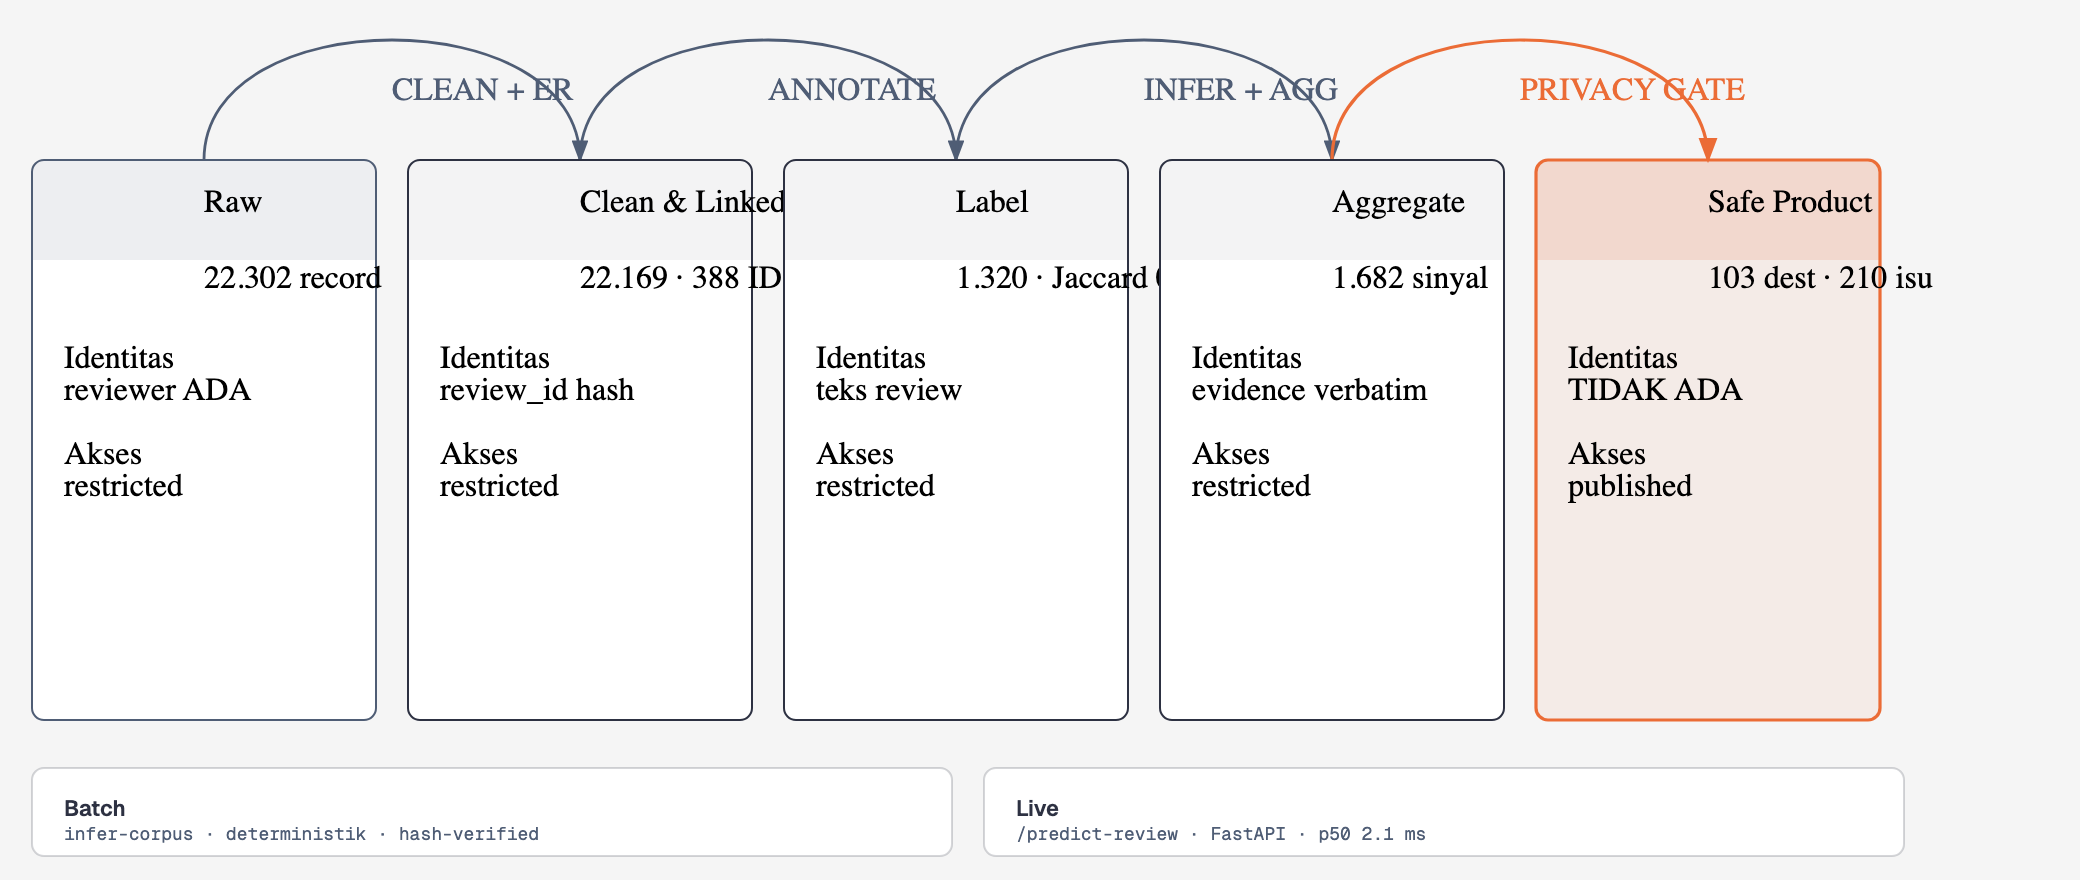
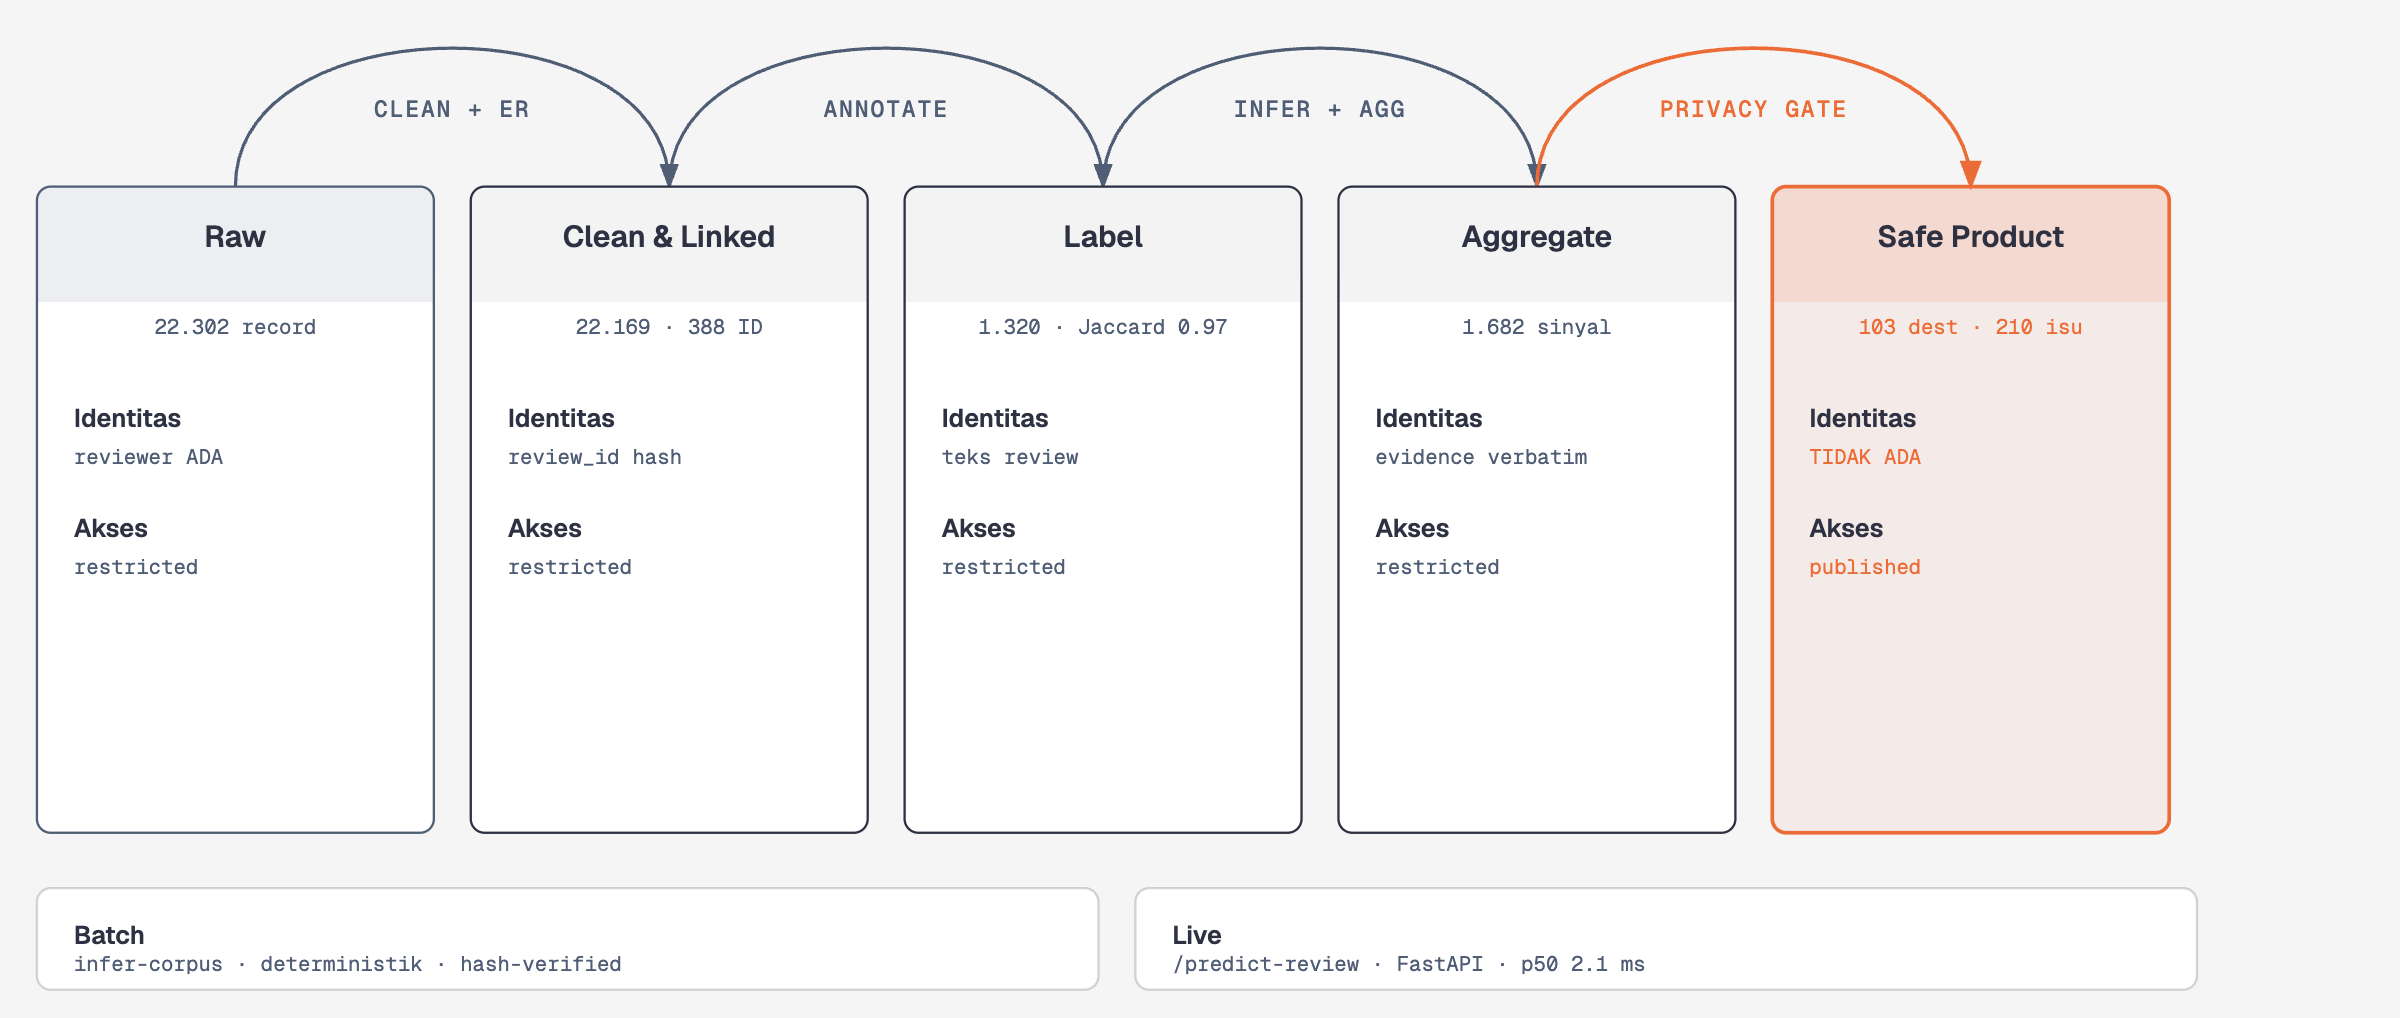
fix: clean deployment arrows, regenerate PNG/SVG with fonts, add TF-IDF rationale + figure interpretations

diff --git a/docs/figures/diagrams/deployment-dgx.html b/docs/figures/diagrams/deployment-dgx.html
@@ -37,54 +37,54 @@
       <rect width="100%" height="100%" fill="#f5f5f5"/>
 
       <!-- Zone: DGX B200 -->
-      <rect x="340" y="80" width="620" height="240" rx="8" fill="rgba(45,49,66,0.02)" stroke="rgba(45,49,66,0.10)" stroke-width="0.8"/>
-      <rect x="396" y="84" width="72" height="12" rx="2" fill="#f5f5f5"/>
-      <text x="432" y="93" fill="rgba(45,49,66,0.40)" font-size="7" font-family="'Geist Mono', monospace" text-anchor="middle" letter-spacing="0.14em">DGX B200</text>
+      <rect x="560" y="72" width="340" height="256" rx="8" fill="rgba(45,49,66,0.02)" stroke="rgba(45,49,66,0.10)" stroke-width="0.8"/>
+      <rect x="672" y="76" width="72" height="12" rx="2" fill="#f5f5f5"/>
+      <text x="708" y="85" fill="rgba(45,49,66,0.40)" font-size="7" font-family="'Geist Mono', monospace" text-anchor="middle" letter-spacing="0.14em">DGX B200</text>
 
       <!-- Arrows first -->
-      <line x1="168" y1="192" x2="364" y2="192" stroke="#2e5aa8" stroke-width="1.2" marker-end="url(#arrow-link)"/>
-      <path d="M 524,176 H 632 Q 640,176 640,168 V 132" fill="none" stroke="#eb6c36" stroke-width="1.4" marker-end="url(#arrow-accent)"/>
-      <path d="M 524,208 H 632 Q 640,208 640,216 V 272" fill="none" stroke="#4f5d75" stroke-width="1.2" marker-end="url(#arrow)"/>
+      <line x1="168" y1="224" x2="332" y2="224" stroke="#2e5aa8" stroke-width="1.2" marker-end="url(#arrow-link)"/>
+      <path d="M 412,192 V 136 Q 412,128 420,128 H 620" fill="none" stroke="#eb6c36" stroke-width="1.4" marker-end="url(#arrow-accent)"/>
+      <path d="M 412,256 V 280 Q 412,288 420,288 H 620" fill="none" stroke="#4f5d75" stroke-width="1.2" marker-end="url(#arrow)"/>
 
       <!-- Arrow labels -->
-      <rect x="196" y="172" width="56" height="12" rx="2" fill="#f5f5f5"/>
-      <text x="224" y="181" fill="#2e5aa8" font-size="8" font-family="'Geist Mono', monospace" text-anchor="middle" letter-spacing="0.08em">HTTPS</text>
-      <rect x="556" y="120" width="40" height="12" rx="2" fill="#f5f5f5"/>
-      <text x="576" y="129" fill="#eb6c36" font-size="8" font-family="'Geist Mono', monospace" text-anchor="middle" letter-spacing="0.08em">LIVE</text>
-      <rect x="556" y="236" width="40" height="12" rx="2" fill="#f5f5f5"/>
-      <text x="576" y="245" fill="#4f5d75" font-size="8" font-family="'Geist Mono', monospace" text-anchor="middle" letter-spacing="0.08em">READ</text>
+      <rect x="196" y="204" width="56" height="12" rx="2" fill="#f5f5f5"/>
+      <text x="224" y="213" fill="#2e5aa8" font-size="8" font-family="'Geist Mono', monospace" text-anchor="middle" letter-spacing="0.08em">HTTPS</text>
+      <rect x="492" y="108" width="40" height="12" rx="2" fill="#f5f5f5"/>
+      <text x="512" y="117" fill="#eb6c36" font-size="8" font-family="'Geist Mono', monospace" text-anchor="middle" letter-spacing="0.08em">LIVE</text>
+      <rect x="492" y="296" width="40" height="12" rx="2" fill="#f5f5f5"/>
+      <text x="512" y="305" fill="#4f5d75" font-size="8" font-family="'Geist Mono', monospace" text-anchor="middle" letter-spacing="0.08em">READ</text>
 
       <!-- Node: User -->
-      <rect x="40" y="160" width="128" height="64" rx="6" fill="#f5f5f5"/>
-      <rect x="40" y="160" width="128" height="64" rx="6" fill="rgba(79,93,117,0.10)" stroke="#7a8399" stroke-width="1"/>
-      <rect x="48" y="168" width="28" height="12" rx="2" fill="transparent" stroke="rgba(122,131,153,0.40)" stroke-width="0.8"/>
-      <text x="62" y="177" fill="#7a8399" font-size="7" font-family="'Geist Mono', monospace" text-anchor="middle" letter-spacing="0.08em">EXT</text>
-      <text x="104" y="196" fill="#2d3142" font-size="12" font-weight="600" font-family="'Geist', sans-serif" text-anchor="middle">Browser</text>
-      <text x="104" y="212" fill="#4f5d75" font-size="9" font-family="'Geist Mono', monospace" text-anchor="middle">juri · demo</text>
+      <rect x="40" y="192" width="128" height="64" rx="6" fill="#f5f5f5"/>
+      <rect x="40" y="192" width="128" height="64" rx="6" fill="rgba(79,93,117,0.10)" stroke="#7a8399" stroke-width="1"/>
+      <rect x="48" y="200" width="28" height="12" rx="2" fill="transparent" stroke="rgba(122,131,153,0.40)" stroke-width="0.8"/>
+      <text x="62" y="209" fill="#7a8399" font-size="7" font-family="'Geist Mono', monospace" text-anchor="middle" letter-spacing="0.08em">EXT</text>
+      <text x="104" y="228" fill="#2d3142" font-size="12" font-weight="600" font-family="'Geist', sans-serif" text-anchor="middle">Browser</text>
+      <text x="104" y="244" fill="#4f5d75" font-size="9" font-family="'Geist Mono', monospace" text-anchor="middle">juri · demo</text>
 
       <!-- Node: web (focal) -->
-      <rect x="380" y="160" width="144" height="64" rx="6" fill="#f5f5f5"/>
-      <rect x="380" y="160" width="144" height="64" rx="6" fill="rgba(235,108,54,0.08)" stroke="#eb6c36" stroke-width="1.2"/>
-      <rect x="388" y="168" width="32" height="12" rx="2" fill="transparent" stroke="rgba(235,108,54,0.50)" stroke-width="0.8"/>
-      <text x="404" y="177" fill="#eb6c36" font-size="7" font-family="'Geist Mono', monospace" text-anchor="middle" letter-spacing="0.08em">WEB</text>
-      <text x="452" y="196" fill="#2d3142" font-size="12" font-weight="600" font-family="'Geist', sans-serif" text-anchor="middle">Next.js</text>
-      <text x="452" y="212" fill="#4f5d75" font-size="9" font-family="'Geist Mono', monospace" text-anchor="middle">precomputed</text>
+      <rect x="340" y="192" width="144" height="64" rx="6" fill="#f5f5f5"/>
+      <rect x="340" y="192" width="144" height="64" rx="6" fill="rgba(235,108,54,0.08)" stroke="#eb6c36" stroke-width="1.2"/>
+      <rect x="348" y="200" width="32" height="12" rx="2" fill="transparent" stroke="rgba(235,108,54,0.50)" stroke-width="0.8"/>
+      <text x="364" y="209" fill="#eb6c36" font-size="7" font-family="'Geist Mono', monospace" text-anchor="middle" letter-spacing="0.08em">WEB</text>
+      <text x="412" y="228" fill="#2d3142" font-size="12" font-weight="600" font-family="'Geist', sans-serif" text-anchor="middle">Next.js</text>
+      <text x="412" y="244" fill="#4f5d75" font-size="9" font-family="'Geist Mono', monospace" text-anchor="middle">precomputed</text>
 
       <!-- Node: inference -->
-      <rect x="640" y="100" width="144" height="64" rx="6" fill="#f5f5f5"/>
-      <rect x="640" y="100" width="144" height="64" rx="6" fill="#ffffff" stroke="#2d3142" stroke-width="1"/>
-      <rect x="648" y="108" width="36" height="12" rx="2" fill="transparent" stroke="rgba(45,49,66,0.40)" stroke-width="0.8"/>
-      <text x="666" y="117" fill="#2d3142" font-size="7" font-family="'Geist Mono', monospace" text-anchor="middle" letter-spacing="0.08em">INFER</text>
-      <text x="712" y="136" fill="#2d3142" font-size="12" font-weight="600" font-family="'Geist', sans-serif" text-anchor="middle">FastAPI</text>
-      <text x="712" y="152" fill="#4f5d75" font-size="9" font-family="'Geist Mono', monospace" text-anchor="middle">TF-IDF · live</text>
+      <rect x="620" y="96" width="144" height="64" rx="6" fill="#f5f5f5"/>
+      <rect x="620" y="96" width="144" height="64" rx="6" fill="#ffffff" stroke="#2d3142" stroke-width="1"/>
+      <rect x="628" y="104" width="36" height="12" rx="2" fill="transparent" stroke="rgba(45,49,66,0.40)" stroke-width="0.8"/>
+      <text x="646" y="113" fill="#2d3142" font-size="7" font-family="'Geist Mono', monospace" text-anchor="middle" letter-spacing="0.08em">INFER</text>
+      <text x="692" y="132" fill="#2d3142" font-size="12" font-weight="600" font-family="'Geist', sans-serif" text-anchor="middle">FastAPI</text>
+      <text x="692" y="148" fill="#4f5d75" font-size="9" font-family="'Geist Mono', monospace" text-anchor="middle">TF-IDF · live</text>
 
       <!-- Node: db -->
-      <rect x="640" y="240" width="144" height="64" rx="6" fill="#f5f5f5"/>
-      <rect x="640" y="240" width="144" height="64" rx="6" fill="rgba(45,49,66,0.05)" stroke="#4f5d75" stroke-width="1"/>
-      <rect x="648" y="248" width="24" height="12" rx="2" fill="transparent" stroke="rgba(79,93,117,0.50)" stroke-width="0.8"/>
-      <text x="660" y="257" fill="#4f5d75" font-size="7" font-family="'Geist Mono', monospace" text-anchor="middle" letter-spacing="0.08em">DB</text>
-      <text x="712" y="276" fill="#2d3142" font-size="12" font-weight="600" font-family="'Geist', sans-serif" text-anchor="middle">PostgreSQL</text>
-      <text x="712" y="292" fill="#4f5d75" font-size="9" font-family="'Geist Mono', monospace" text-anchor="middle">data bundle</text>
+      <rect x="620" y="256" width="144" height="64" rx="6" fill="#f5f5f5"/>
+      <rect x="620" y="256" width="144" height="64" rx="6" fill="rgba(45,49,66,0.05)" stroke="#4f5d75" stroke-width="1"/>
+      <rect x="628" y="264" width="24" height="12" rx="2" fill="transparent" stroke="rgba(79,93,117,0.50)" stroke-width="0.8"/>
+      <text x="640" y="273" fill="#4f5d75" font-size="7" font-family="'Geist Mono', monospace" text-anchor="middle" letter-spacing="0.08em">DB</text>
+      <text x="692" y="292" fill="#2d3142" font-size="12" font-weight="600" font-family="'Geist', sans-serif" text-anchor="middle">PostgreSQL</text>
+      <text x="692" y="308" fill="#4f5d75" font-size="9" font-family="'Geist Mono', monospace" text-anchor="middle">data bundle</text>
 
       <!-- Legend strip -->
       <line x1="40" y1="344" x2="960" y2="344" stroke="rgba(45,49,66,0.10)" stroke-width="0.8"/>

diff --git a/SIPATURE-Laporan-Final-Draft.md b/SIPATURE-Laporan-Final-Draft.md
@@ -112,7 +112,7 @@ Rantai lengkap dari ulasan mentah hingga tindak lanjut terverifikasi:
 
 **Gambar 1. Rantai solusi SIPATURE — dari ulasan menjadi tindak lanjut terverifikasi.**
 
-Tujuh tahap: ulasan mentah dibersihkan dan dihubungkan ke destinasi (*entity resolution*), diproses model deteksi aspek (TF-IDF + lexical polarity), diagregasi menjadi sinyal dan bukti verbatim per destinasi, diprioritaskan secara *missing-aware*, diverifikasi manusia (`confirmed`/`rejected`/`uncertain`), lalu menjadi kandidat tindak lanjut. *Severity* tidak tersedia (support kelas `high` < 20) sehingga tidak diimputasi.
+**Interpretasi Gambar 1.** Tujuh tahap: ulasan mentah dibersihkan dan dihubungkan ke destinasi (*entity resolution*), diproses model deteksi aspek (TF-IDF + lexical polarity, ditandai *focal*), diagregasi menjadi sinyal dan bukti verbatim per destinasi, diprioritaskan secara *missing-aware*, diverifikasi manusia (`confirmed`/`rejected`/`uncertain`), lalu menjadi kandidat tindak lanjut. *Severity* tidak tersedia (support kelas `high` < 20) sehingga tidak diimputasi.
 
 ## 3.2 Taxonomy
 
@@ -178,7 +178,7 @@ Tujuh tahap: ulasan mentah dibersihkan dan dihubungkan ke destinasi (*entity res
 
 **Gambar 2. Deployment tiga layanan di host DGX B200.**
 
-Aplikasi *web* (Next.js) membaca data precomputed dari *bundle* A9 yang di-seed ke PostgreSQL, dan memanggil layanan *inference* (FastAPI TF-IDF) untuk analisis *review* live. Ketiga layanan berjalan dalam satu host DGX B200 secara offline.
+**Interpretasi Gambar 2.** Browser (juri/demo) memanggil *web* Next.js melalui HTTPS. *Web* membaca data precomputed dari PostgreSQL (`READ`), dan untuk analisis *review* live memanggil layanan *inference* FastAPI yang memuat model TF-IDF ter-bundle (`LIVE`). Ketiga layanan berjalan dalam satu host DGX B200; model dan data sudah di-*bundle* ke image sehingga tidak ada *download* saat *startup* dan demo berjalan penuh tanpa internet eksternal.
 
 ## 5.2 Fitur
 
@@ -220,9 +220,21 @@ Docker Compose tiga layanan; model & data di-*bundle* ke image (tanpa *download*
 | IndoBERT (aspek) | 0,5247 | 0,4254 |
 | IndoBERT (polarity) | 0,7459 | 0,5077 (≈ chance) |
 
-## 6.2 Keputusan Model
+**Interpretasi Gambar 3.** Bar kiri adalah *agreement* terhadap *silver* (weak supervision), bar kanan terhadap *gold-v1* (manusia). *Keyword* turun drastis dari 0,9768 ke 0,7056 — menegaskan bahwa skor *silver*-nya sirkular. TF-IDF turun dari 0,7201 ke 0,5777, penurunan yang wajar karena *gold* lebih ketat; angka ini adalah ukuran jujur terhadap penilaian manusia. IndoBERT tetap paling rendah (0,4254). Karena itu TF-IDF dipertahankan sebagai model produksi, dengan alasan lengkap pada §6.2.
 
-TF-IDF tetap menjadi detektor aspek karena merupakan **model yang belajar dari data** (interpretable, CPU-only, cepat), sedangkan *gold* dipakai sebagai **benchmark evaluasi**, bukan data *training*. Menggunakan *gold* untuk melatih akan membuat evaluasi sirkular (1.320 *review* yang sama dipakai evaluasi). *Keyword* lebih tinggi di gold (0,7056) tetapi merupakan *rule engine* yang sama dengan pembuat *silver* — dilaporkan terpisah sebagai *ceiling*.
+## 6.2 Keputusan Model — mengapa TF-IDF (dilatih silver) dipilih
+
+**Mengapa model produksi dilatih pada *silver labels*, bukan *gold*?** Karena *gold* adalah *benchmark evaluasi*, bukan data *training*. Ketiga alasan berikut menjawab pertanyaan juri yang paling sering muncul:
+
+1. **Circularity / leakage.** 1.320 *review* *gold* adalah persis *split* yang dipakai evaluasi. Melatih di *gold* lalu menguji di *gold* berarti model menghafal jawaban — persis seperti *Keyword* 0,9768 di *silver* yang kami ungkap sebagai *ceiling*, bukan prestasi. Nilai F1 yang dihasilkan tidak akan bermakna.
+2. **Generalisasi.** *Gold* hanya 1.320 *review*, sedangkan produksi harus memprediksi 12.234 *review* berteks. *Silver* menyediakan data *training* yang sama besarnya dan sudah dipakai sejak awal untuk melatih.
+3. **Independensi *benchmark*.** *Gold* dibuat justru agar independen dari model; memakainya untuk melatih akan menghancurkan fungsinya sebagai pengukur yang jujur.
+
+**Lalu mengapa bukan *Keyword* (0,7056 > TF-IDF 0,5777 di gold)?** *Keyword* adalah *rule engine* leksikal yang *sama* dengan pembuat *silver labels* — bukan model yang belajar dari data. Ia tinggi di *silver* (0,9768) justru karena sirkular, dan tetap tinggi di *gold* karena lexikon *taxonomy*-nya kebetulan cocok dengan penilaian manusia. Memilih *Keyword* berarti memilih *rules* yang sudah kami tulis sendiri, bukan model yang menggeneralisasi. Kami melaporkan keduanya secara terpisah dan tidak menyembunyikan gap ini.
+
+**Dan mengapa bukan IndoBERT?** IndoBERT (124,5M param, fine-tune 4 *epoch*) memperoleh aspek 0,4254 dan *polarity* 0,5077 (≈ *chance*) di *gold-v1* — keduanya di bawah TF-IDF. Pada data kecil (922 *train*) dengan label lemah dan distribusi aspek timpang, kompleksitas tidak otomatis memberi hasil lebih baik; IndoBERT juga lebih mahal (GPU) dan kurang interpretable.
+
+**Kesimpulan:** TF-IDF + *One-vs-Rest Logistic Regression* dipilih sebagai detektor aspek karena (a) model yang benar-benar belajar dari data, (b) *interpretable* dan deterministik, (c) CPU-only dengan *latency* p50 2,1 ms, (d) dapat dimuat ulang secara offline, dan (e) hasil *gold-v1*-nya (0,5777) adalah angka jujur terhadap penilaian manusia. *Upgrade* yang benar di masa depan adalah menambah anotasi manusia (held-out set baru) lalu melatih ulang — bukan memakai *gold* yang sama sebagai *training*.
 
 ## 6.3 Entity Resolution
 
@@ -276,6 +288,8 @@ Arsitektur *batch-first* + SQL; TF-IDF inferensi linear; *entity resolution* ber
 
 **Gambar 4. Lima lapisan data — dari mentah (restricted) ke agregat aman (published).**
 
+**Interpretasi Gambar 4.** Data mengalir dari kiri ke kanan melalui empat transformasi, dengan **PRIVACY GATE** (ditandai aksen) sebagai batas kritis: hanya agregat aman yang menyeberang ke sisi publik. Identitas reviewer berangsur hilang — dari `reviewer-id`/`name` di lapisan *raw*, menjadi `review_id` hash, teks *review*, *evidence* verbatim, hingga **tidak ada sama sekali** di *bundle* produk. Dua jalur konsumsi (*batch* dan *live*) memakai data yang sama secara deterministik dan hash-verified.
+
 Data SIPATURE dibagi lima lapisan dengan tingkat akses berbeda. Lapisan mentah hingga *evidence* hanya dapat diakses tim ML (`restricted`); hanya **agregat aman** yang dipublikasikan ke aplikasi tanpa identitas reviewer:
 
 | Lapisan | Konten | Identitas reviewer | Akses |
@@ -289,6 +303,8 @@ Data SIPATURE dibagi lima lapisan dengan tingkat akses berbeda. Lapisan mentah h
 ![Matriks akses data terbatas](docs/figures/diagrams/restricted-data-policy.png)
 
 **Gambar 5. Matriks akses tiga peran × lima komponen data.**
+
+**Interpretasi Gambar 5.** Empat komponen terbatas (`raw`, `clean`, *annotation*, *evidence*) hanya `Admin` bagi tim ML — publik dan pengelola `None`. Hanya **safe aggregate** yang `Read` oleh publik (sel yang ditandai aksen = batas publikasi). Matriks ini membuktikan privasi-by-design: meskipun pipeline menyimpan data mentah untuk audit, aplikasi publik hanya pernah menerima agregat tanpa identitas reviewer.
 
 - **Publik / juri** → hanya agregat aman (*read*).
 - **Pengelola destinasi** → agregat aman + workflow verifikasi.
